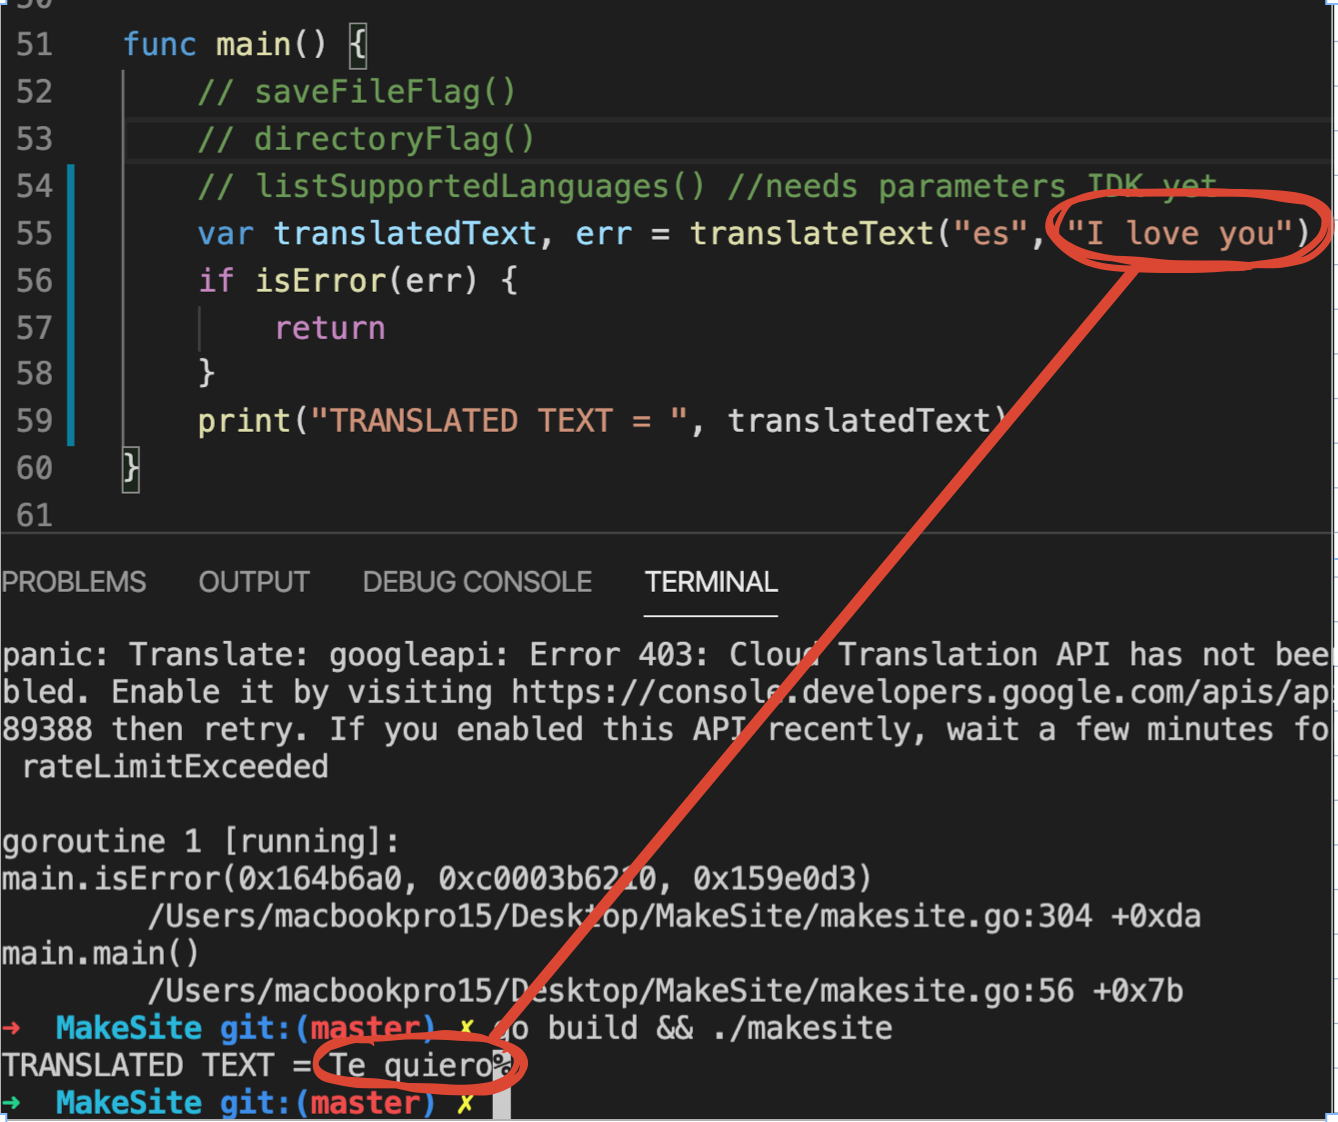
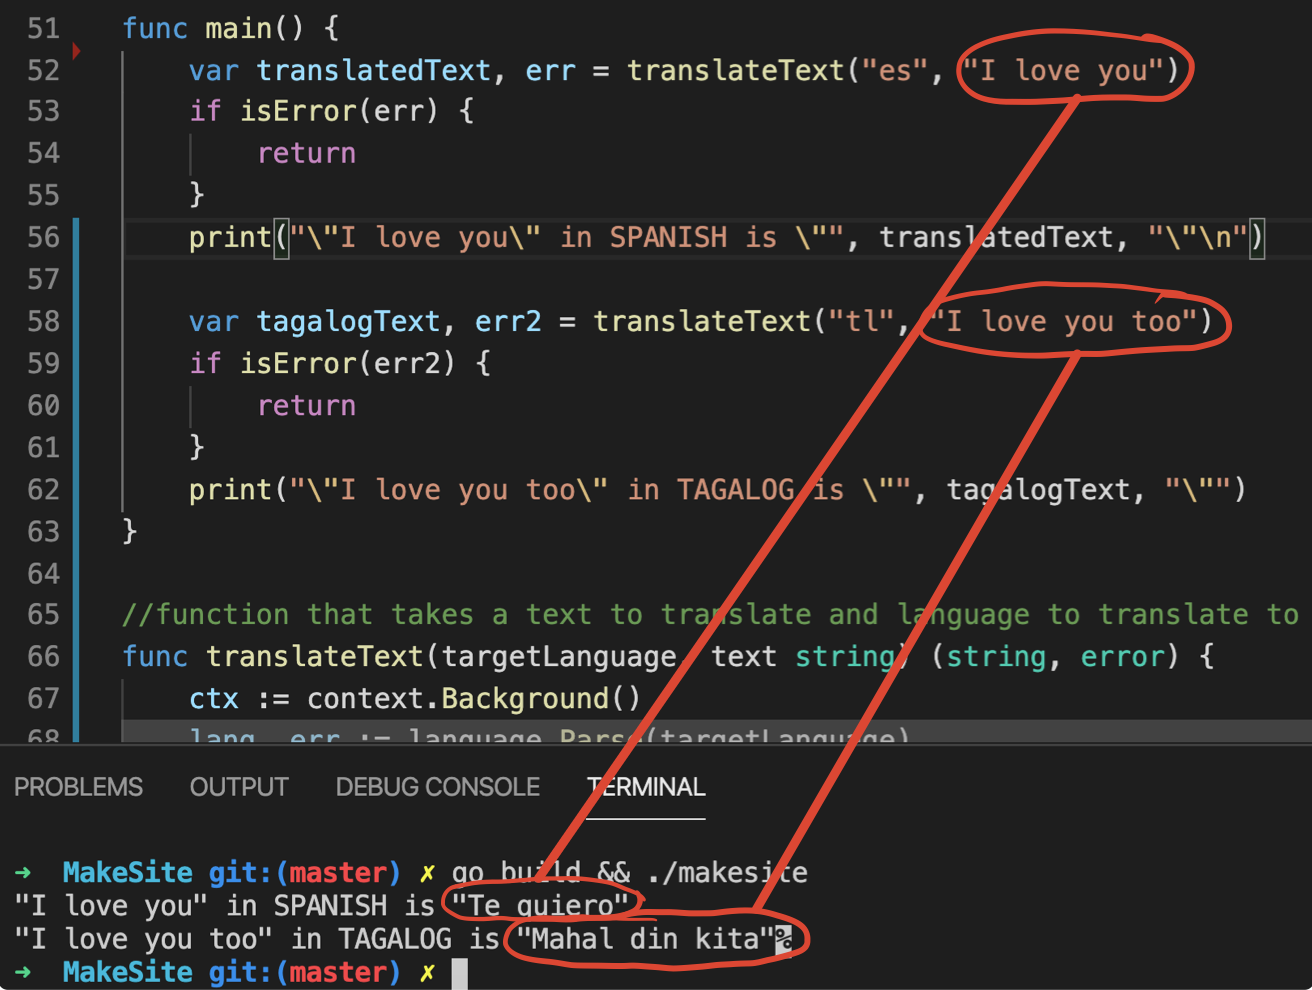
[add] screensht

Changed region(s): [[0.0, 0.0, 1.0, 1.0], [0.9062, 0.4545, 0.9375, 0.5152], [0.0938, 0.3939, 0.125, 0.4545]]

diff --git a/makesite.go b/makesite.go
@@ -49,14 +49,41 @@ func init() {
 }
 
 func main() {
-	// saveFileFlag()
-	// directoryFlag()
-	// listSupportedLanguages() //needs parameters IDK yet
 	var translatedText, err = translateText("es", "I love you")
 	if isError(err) {
 		return
 	}
-	print("TRANSLATED TEXT = ", translatedText)
+	print("\"I love you\" in SPANISH is \"", translatedText, "\"\n")
+
+	var tagalogText, err2 = translateText("tl", "I love you too")
+	if isError(err2) {
+		return
+	}
+	print("\"I love you too\" in TAGALOG is \"", tagalogText, "\"")
+}
+
+//function that takes a text to translate and language to translate to and returns an error or the translatedText
+func translateText(targetLanguage, text string) (string, error) {
+	ctx := context.Background()
+	lang, err := language.Parse(targetLanguage)
+	if err != nil {
+		return "", fmt.Errorf("language.Parse: %v", err)
+	}
+
+	client, err := translate.NewClient(ctx)
+	if err != nil {
+		return "", err
+	}
+	defer client.Close()
+
+	resp, err := client.Translate(ctx, []string{text}, lang, nil)
+	if err != nil {
+		return "", fmt.Errorf("Translate: %v", err)
+	}
+	if len(resp) == 0 {
+		return "", fmt.Errorf("Translate returned empty response to text: %s", text)
+	}
+	return resp[0].Text, nil
 }
 
 //Sample code implemented in: https://cloud.google.com/storage/docs/reference/libraries
@@ -86,31 +113,6 @@ func translationOverView() { //this code is only ran once in the beginning set u
 	}
 
 	fmt.Printf("Bucket %v created.\n", bucketName)
-}
-
-func translateText(targetLanguage, text string) (string, error) {
-	// text := "The Go Gopher is cute"
-	ctx := context.Background()
-
-	lang, err := language.Parse(targetLanguage)
-	if err != nil {
-		return "", fmt.Errorf("language.Parse: %v", err)
-	}
-
-	client, err := translate.NewClient(ctx)
-	if err != nil {
-		return "", err
-	}
-	defer client.Close()
-
-	resp, err := client.Translate(ctx, []string{text}, lang, nil)
-	if err != nil {
-		return "", fmt.Errorf("Translate: %v", err)
-	}
-	if len(resp) == 0 {
-		return "", fmt.Errorf("Translate returned empty response to text: %s", text)
-	}
-	return resp[0].Text, nil
 }
 
 func listSupportedLanguages(w io.Writer, targetLanguage string) error {
